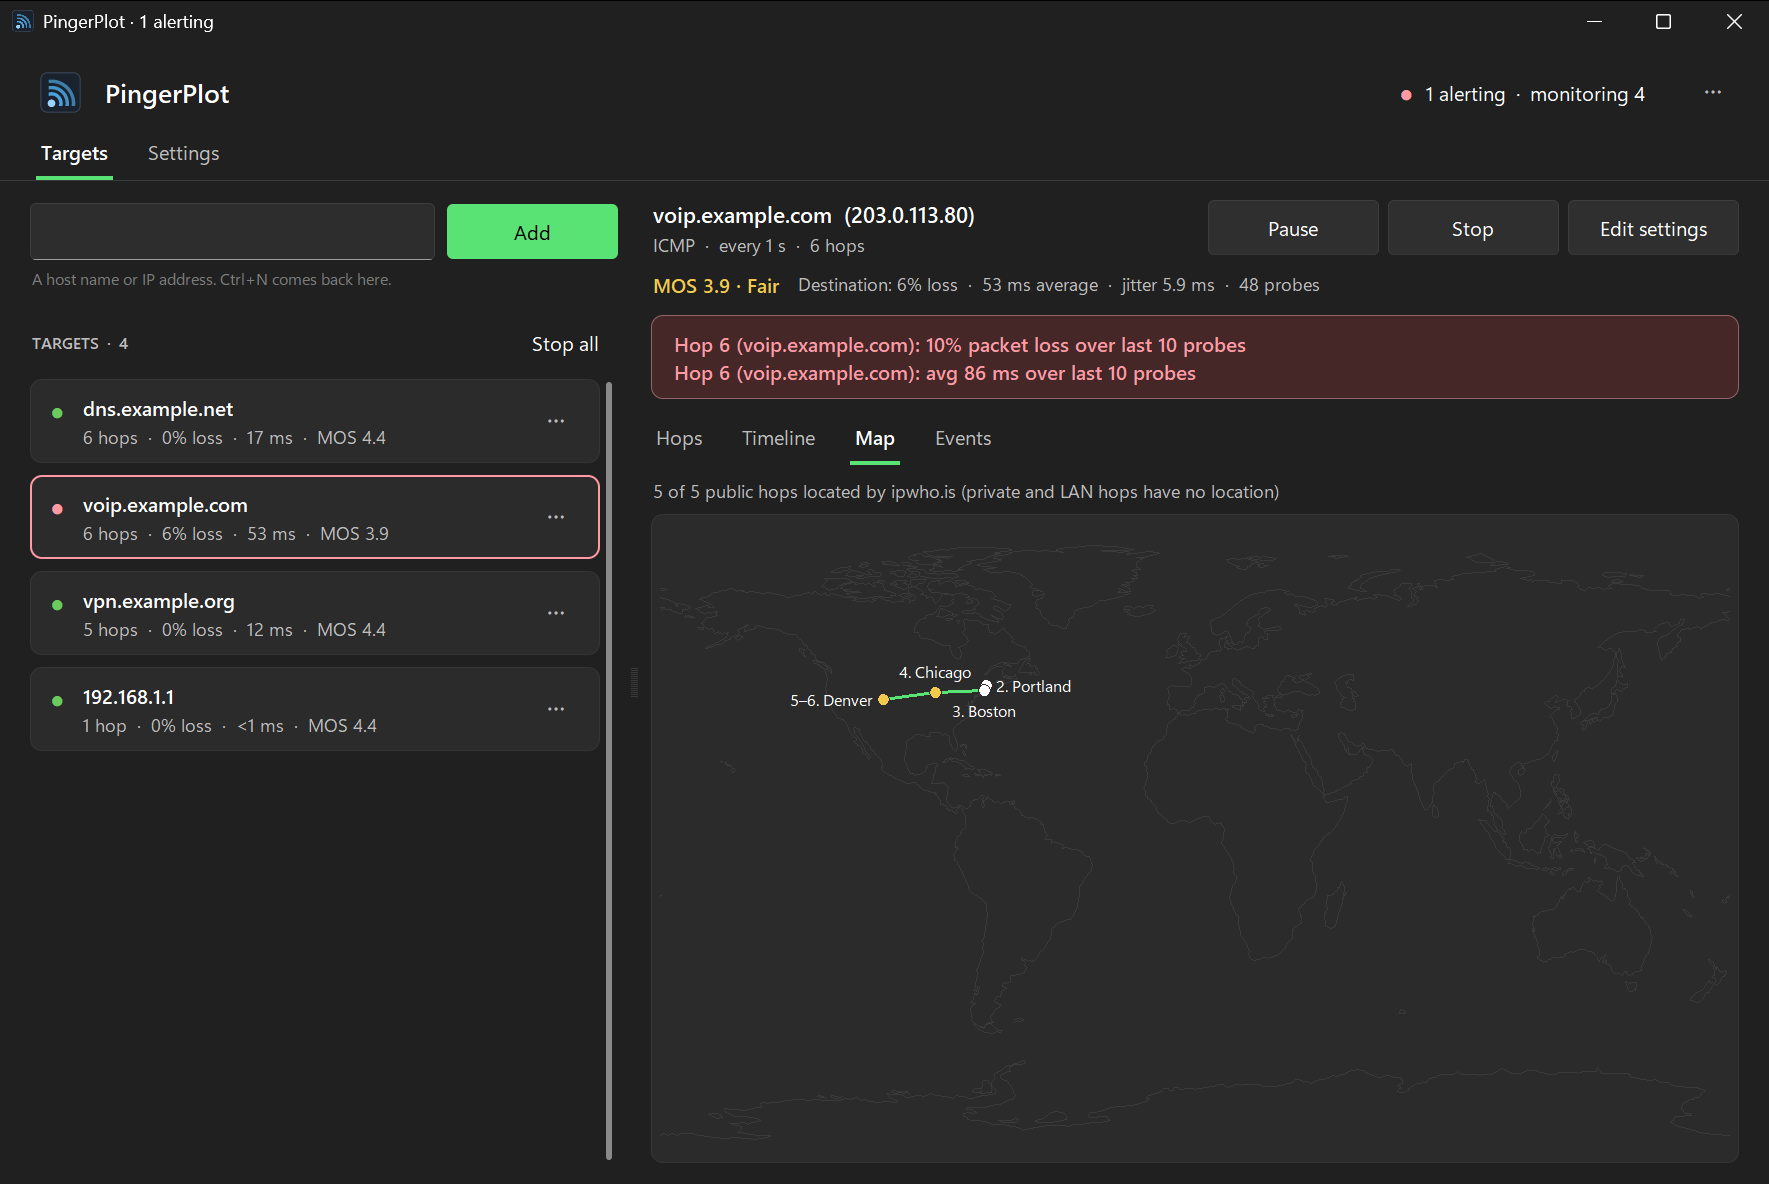
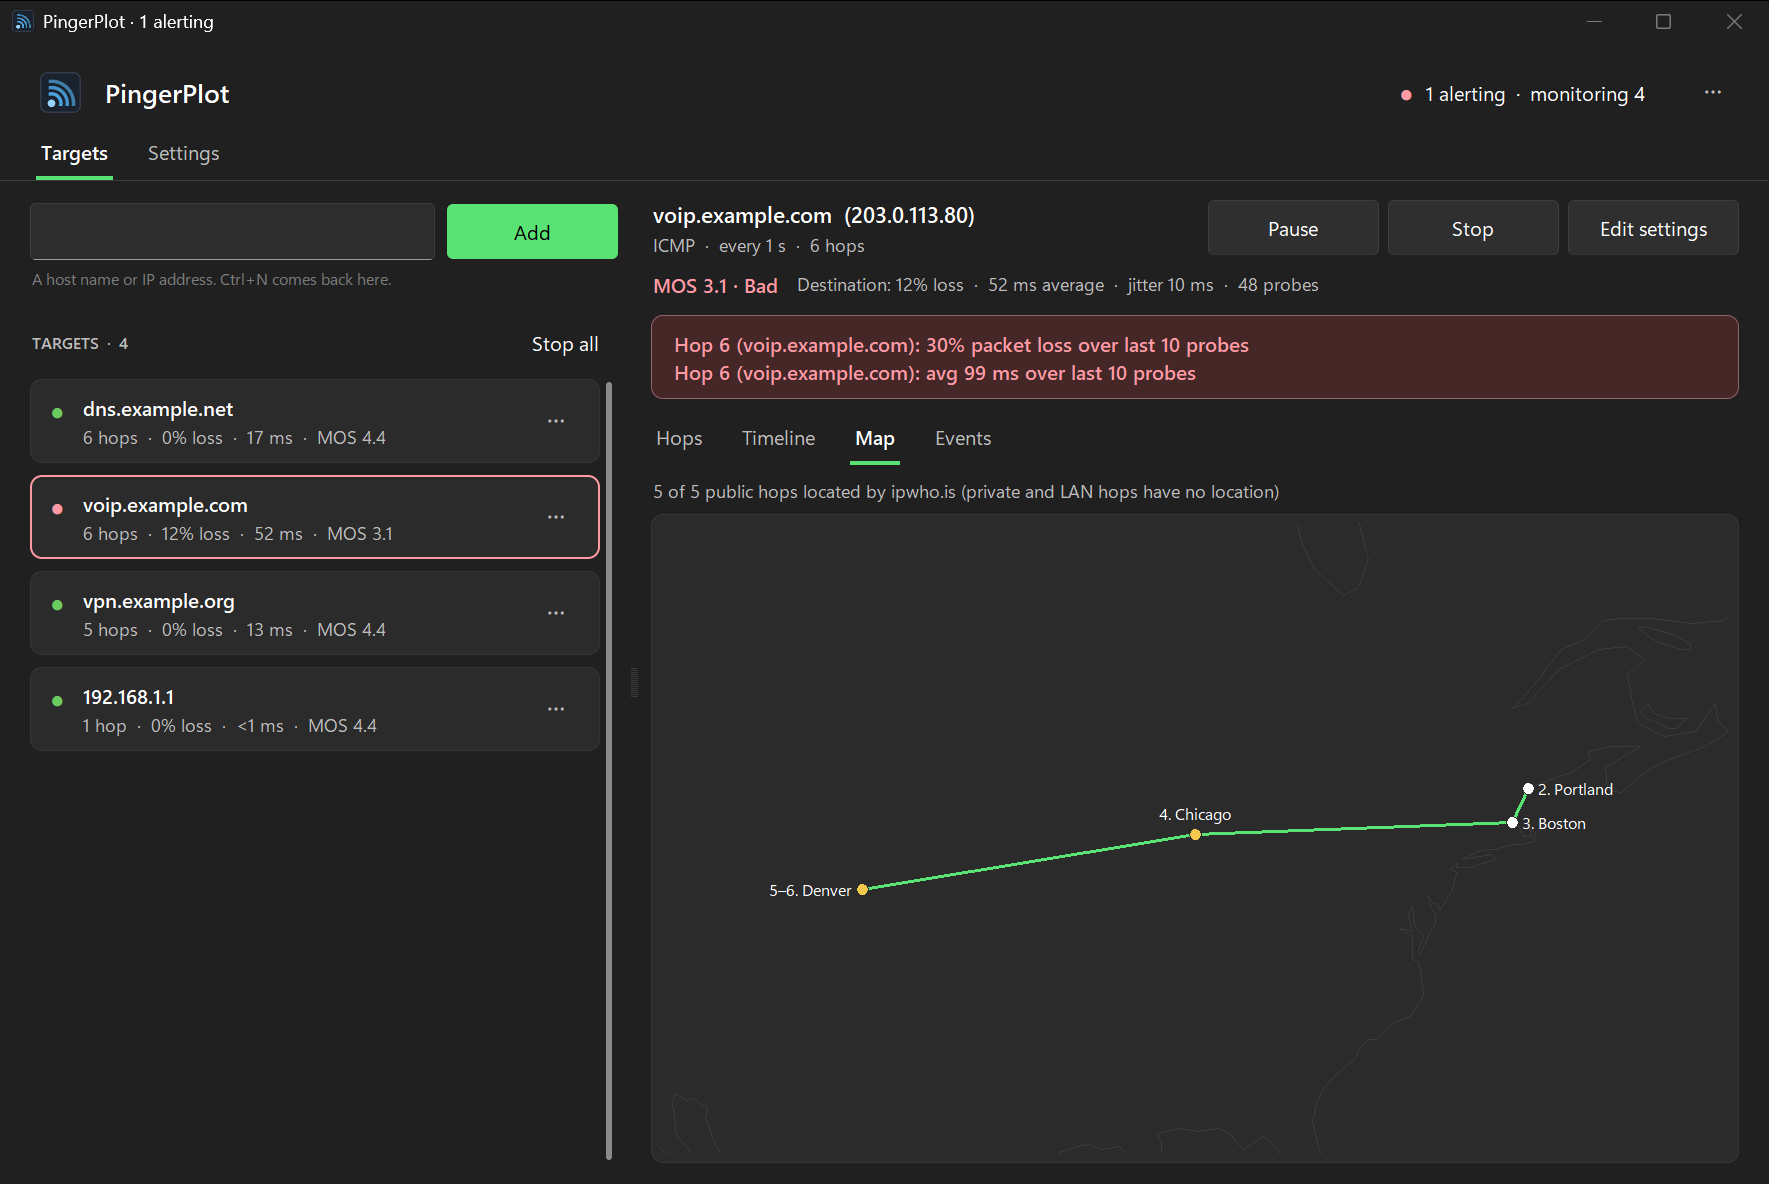
1.4.1: version, CHANGELOG, release notes, the zoomed Map's picture

diff --git a/site/index.html b/site/index.html
@@ -139,7 +139,7 @@
       <figure><img src="images/timeline-dark.png" width="1769" height="1184" alt="The Timeline view: six hops stacked on one time axis, loss and latency rising from hop 4 onwards" loading="lazy"><figcaption>Timeline: the whole path on one time axis. The trouble starts at hop 4.</figcaption></figure>
       <figure><img src="images/hops-light.png" width="1769" height="1184" alt="The Hops view in the light theme" loading="lazy"><figcaption>The Hops view in the light theme. Rows turn amber or red on loss or latency.</figcaption></figure>
       <figure><img src="images/events-light.png" width="1769" height="1184" alt="The Events view: a route change, alerts raised and cleared, with times" loading="lazy"><figcaption>Events: route changes and alerts as they happen.</figcaption></figure>
-      <figure><img src="images/map-dark.png" width="1769" height="1184" alt="The Map view: the path's public hops on a world map" loading="lazy"><figcaption>Map: the public hops located, when you open it.</figcaption></figure>
+      <figure><img src="images/map-dark.png" width="1769" height="1184" alt="The Map view, zoomed to the path: Portland, Boston, Chicago and Denver joined by the route" loading="lazy"><figcaption>Map: the path's public hops, zoomed to fit, when you open it.</figcaption></figure>
       <figure><img src="images/settings-dark.png" width="1769" height="1184" alt="The Settings page: probing, alert thresholds and the app's options" loading="lazy"><figcaption>Settings: defaults for new targets, and the app's own options.</figcaption></figure>
     </div>
     <p class="note">All pictures are from the app's demo mode: simulated paths with documentation addresses.</p>

diff --git a/pingerplot/__init__.py b/pingerplot/__init__.py
@@ -5,4 +5,4 @@ Npcap are required for ICMP: Windows uses the IP Helper API via ctypes, and
 Linux/macOS use unprivileged SOCK_DGRAM ICMP sockets (see icmp_posix).
 """
 
-__version__ = "1.4.0"
+__version__ = "1.4.1"

diff --git a/release-notes/v1.4.1.md b/release-notes/v1.4.1.md
@@ -1,0 +1,10 @@
+The Map, zoomed to the path.
+
+**Already on 1.4.0?** PingerPlot offers this update by itself (or ⋯ → **Check for updates**): click **Install and restart**. Otherwise: [`PingerPlot-Setup.exe`](https://github.com/jamesccupps/PingerPlot/releases/download/v1.4.1/PingerPlot-Setup.exe) (installs for your Windows user, no admin prompt) or [`PingerPlot-win64.zip`](https://github.com/jamesccupps/PingerPlot/releases/download/v1.4.1/PingerPlot-win64.zip) (portable). Not code-signed: *Windows protected your PC* → **More info → Run anyway**, and compare with `SHA256SUMS.txt`.
+
+### Changed
+
+- **The Map zooms to the path.** A path within one region used to sit in a clump of a few pixels on a world map; it now fills the view, without stretching. With nothing located yet it's still the whole world.
+- Map labels step off the path's line where they can and stay on the map; one that has to cross the line sits on a plate so it stays readable.
+
+The full list is in the [CHANGELOG](https://github.com/jamesccupps/PingerPlot/blob/main/CHANGELOG.md).

diff --git a/CHANGELOG.md b/CHANGELOG.md
@@ -4,7 +4,10 @@ All notable changes to PingerPlot are recorded here. The format follows
 [Keep a Changelog](https://keepachangelog.com/en/1.1.0/), and the project uses
 [semantic versioning](https://semver.org/).
 
-## [Unreleased]
+## [1.4.1] — 2026-11-04
+
+The Map, zoomed to the path. The first release the in-app updater delivers:
+1.4.0 copies offer it by themselves.
 
 ### Changed
 
@@ -480,6 +483,7 @@ have relied on — see **Changed** before comparing old exports with new ones.
 
 - Initial public release.
 
+[1.4.1]: https://github.com/jamesccupps/PingerPlot/releases/tag/v1.4.1
 [1.4.0]: https://github.com/jamesccupps/PingerPlot/releases/tag/v1.4.0
 [1.3.3]: https://github.com/jamesccupps/PingerPlot/releases/tag/v1.3.3
 [1.3.2]: https://github.com/jamesccupps/PingerPlot/releases/tag/v1.3.2

diff --git a/README.md b/README.md
@@ -81,7 +81,7 @@ logon task.
      on loss or high latency, over a latency graph. Click a row to graph that hop; until you do, it follows the
      destination.
    - **Timeline**: every hop stacked on one time axis.
-   - **Map**: the public hops located on a world map (see [privacy](#updates-and-privacy)).
+   - **Map**: the public hops located on a map zoomed to the path (see [privacy](#updates-and-privacy)).
    - **Events**: route changes, alerts raised and cleared, warnings.
 3. **Pause**, **Stop** and **Edit settings** are at the top right. Editing a target's settings restarts it with
    them.
